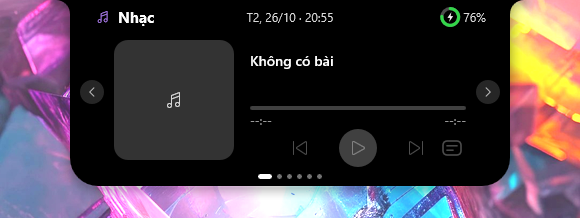
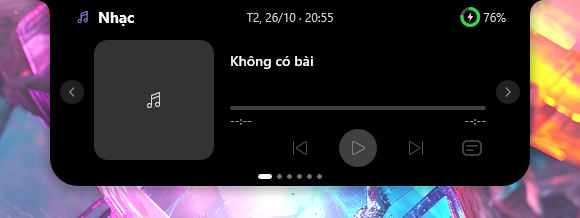
feat(pages): the standard open panel is 480 x 186 for every page, Music included

diff --git a/src/render.rs b/src/render.rs
@@ -278,9 +278,7 @@ fn dots_y(h: f32) -> f32 {
 pub fn panel_size(page: Page) -> [f32; 2] {
     let [w, h, _] = target(Mode::Expanded, false);
     match page {
-        // Four task cards instead of three.
-        // The pages other than Music share one standard size: 480 x 186.
-        Page::Todo | Page::Notify | Page::Health | Page::Weather | Page::Usage => [w + 40.0, h],
+        // Every page shares one standard size, 480 x 186; a page that needs more asks for it here.
         _ => [w, h],
     }
 }
@@ -3051,10 +3049,10 @@ mod tests {
             assert_eq!(hit_button(cx, scale, px, py, None, Page::Music, 0, 0, None, false), None);
             assert!(buttons(cx, scale, false).iter().all(|(_, r)| r.bottom <= dots_y(186.0) * scale));
             // Controls live in the right column: right of the cover, left of the side arrow, no overlaps.
-            let left = cx - 220.0 * scale;
+            let left = cx - 240.0 * scale;
             let cover_right = left + (SIDE + COVER) * scale;
             for r in [prev, play, next, seek, lyr] {
-                assert!(r.left > cover_right && r.right <= left + (440.0 - SIDE) * scale, "{r:?}");
+                assert!(r.left > cover_right && r.right <= left + (480.0 - SIDE) * scale, "{r:?}");
             }
             assert!(prev.right <= play.left && play.right <= next.left && next.right <= lyr.left, "buttons must not overlap");
             assert!(seek.bottom <= prev.top.min(play.top).min(lyr.top), "bar above the buttons");

diff --git a/src/notch.rs b/src/notch.rs
@@ -29,7 +29,7 @@ pub fn target(mode: Mode, live: bool) -> [f32; 3] {
         (Mode::Peek, false) => [166.0, 34.0, 15.0],
         (Mode::Peek, true) => [232.0, 34.0, 15.0],
         (Mode::PeekMini, _) => [72.0, 8.0, 4.0],
-        (Mode::Expanded, _) => [440.0, 186.0, 28.0],
+        (Mode::Expanded, _) => [480.0, 186.0, 28.0],
         (Mode::Alert, _) => [360.0, 64.0, 22.0],
         (Mode::Hidden, _) => [0.0; 3],
     }
